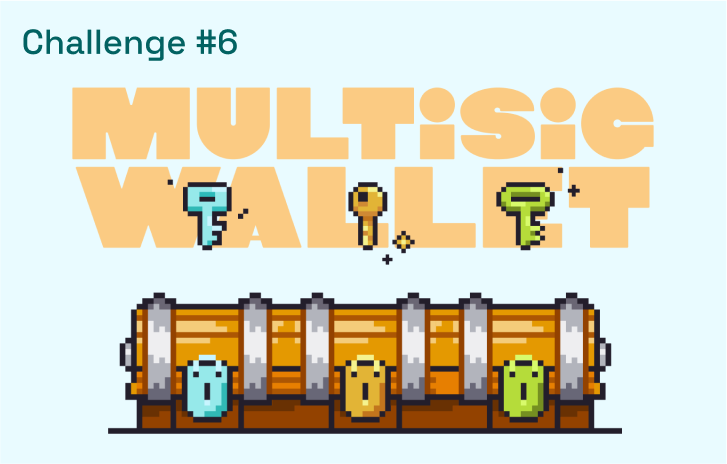
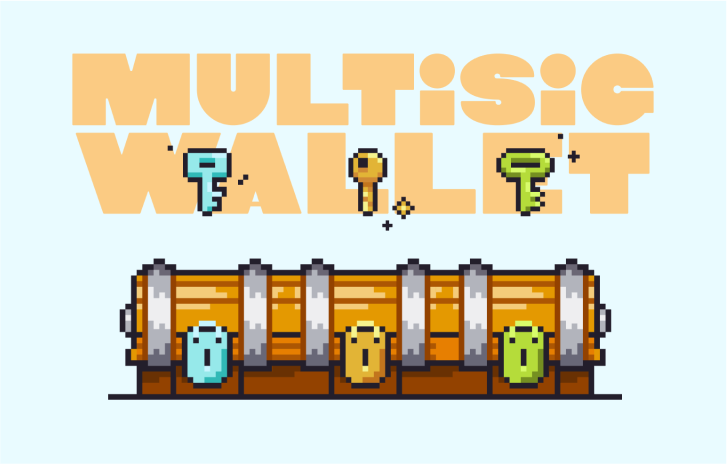
Delete challenge # from image assets

diff --git a/README.md b/README.md
@@ -1,6 +1,6 @@
 # 🚩 Challenge 6: 👛 Multisig Wallet
 
-![readme-6](https://github.com/scaffold-eth/se-2-challenges/assets/55535804/577a8abd-a098-499f-9903-fb6e4c9337e9)
+![readme-6](https://github.com/user-attachments/assets/9bc1a399-62de-46ad-8fec-3c43dd424d37)
 
 👩👩👧👧 A multisig wallet is a smart contract that acts like a wallet, allowing us to secure assets by requiring multiple accounts to "vote" on transactions. Think of it as a treasure chest that can only be opened when all key parties agree.
 
